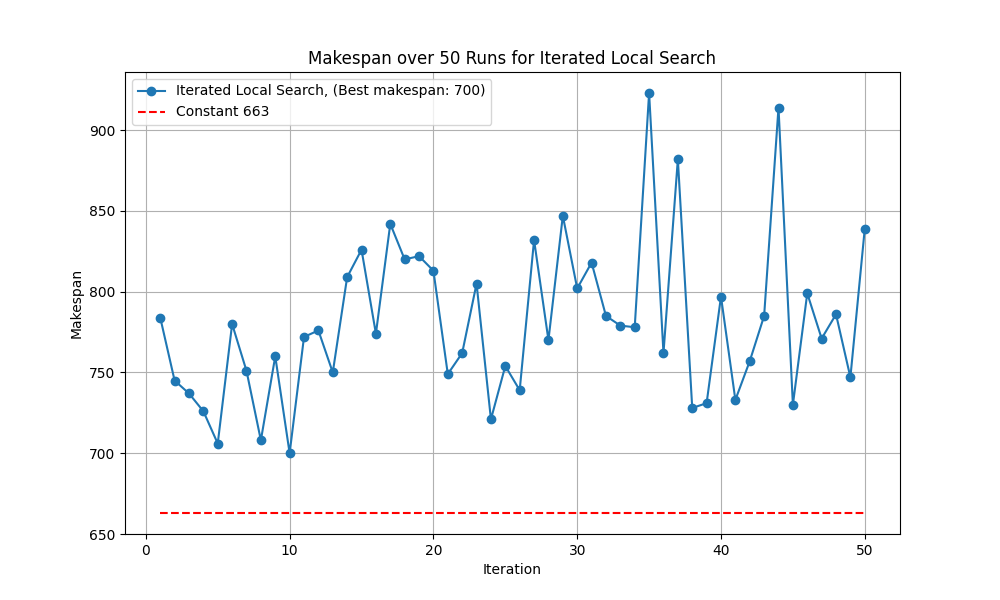
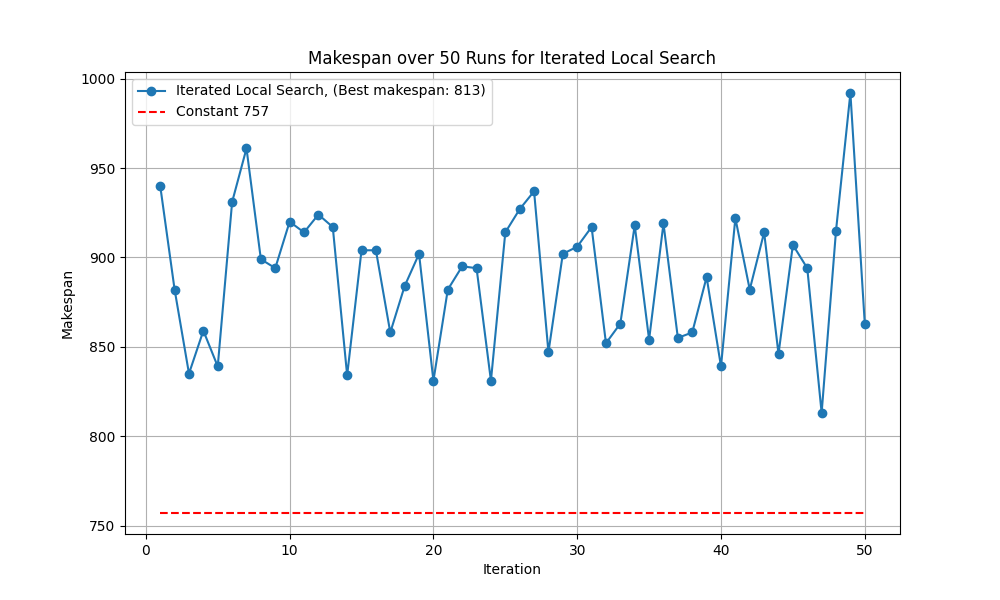
Added machines in order, machines idle, makespan on charts

diff --git a/main2.py b/main2.py
@@ -324,7 +324,7 @@ class Scheduler:
     def generate_neighbor(self, solution: Tuple[List[int], List[List[int]]]) -> Tuple[List[int], List[List[int]]]:
         operation_sequence, machine_assignment = copy.deepcopy(solution)   # We separate the operation sequence and the maachines assigned
         # Here we will decide if we swap two operations in the sequence or if we pick a different machine and task for a opperation
-        if random.random() < 0.5:
+        if random.random() < config.global_configs.operation_machine_ratio:
             # Option 1: Swap two operations in the sequence
             new_sequence: List[int] = operation_sequence.copy()    # We make a copy of the current sequence
             i, j = random.sample(range(len(new_sequence)), 2)   # Pick two random distinct positions from the new_sequence
@@ -643,7 +643,7 @@ class Scheduler:
                     ) -> Tuple[Tuple[List[int], List[List[int]]], int]:
         
          # Start with a deep copy of the initial solution to avoid modifying the input
-        current_solution: Tuple[List[int], List[List[int]]] = self.generate_initial_solution()
+        current_solution: Tuple[List[int], List[List[int]]] = self.generate_dispaching_inititial_solution("MWR")
         current_makespan: int = self.compute_makespan(*current_solution)    # Compute the makespan of the current solution
         # Initialize the best solution and its makespan 
         best_solution: Tuple[List[int], List[List[int]]] = copy.deepcopy(current_solution)
@@ -778,6 +778,29 @@ class Scheduler:
             print(value)
             print()
 
+    # should be used only after the scheluder completed the processing
+    def get_machines_idle(self) -> List[int]:
+        idles: List[int] = []
+        for machine in self.machines:
+            idle_time: int = 0
+            # We check if we have tasks
+            if len(machine.schedule):
+                # Time before the start of the first operation
+                idle_time += machine.schedule[0][1]
+                # Time in between the operations
+                for i in range(1, len(machine.schedule)):
+                    idle_time += machine.schedule[i][1] - machine.schedule[i - 1][2]
+                # Here we add the time between the end of the last operation and the makespan(end time)
+                idle_time += self.get_makespan() - machine.schedule[-1][2]
+            # In case there are no operations executed
+            else:
+                idle_time = self.get_makespan()
+            # Add to the list
+            idles.append(idle_time)
+        return idles 
+            
+            
+
 ########################
 ### Helper Functions ###
 ########################
@@ -785,7 +808,7 @@ class Scheduler:
 def run_gannt_chart(heuristic: str, scheduler: Scheduler, heuristic_names: Dict):
     scheduler.run(heuristic)
     print(f"\nResults for {heuristic}:")
-    #scheduler.print_job_answer()
+    scheduler.print_job_answer()
     print(f'The total time is: {scheduler.get_makespan()}')
 
     ##### Here the plotting part starts #####
@@ -812,9 +835,17 @@ def run_gannt_chart(heuristic: str, scheduler: Scheduler, heuristic_names: Dict)
     # Calculate duration, adds a new 'Duration' column computed from Finish - Start from every column 
     df['Duration'] = df['Finish'] - df['Start']
 
+    # Extract machine IDs for sorting
+    df['MachineID'] = df['Machine'].str.extract('(\d+)').astype(int)
+    
+    # Get ordered list of machine names (high to low)
+    machine_order = [f"Machine{i}" for i in range(scheduler.machines[-1].machine_id, -1, -1)]
+    
     # Create Gantt-like chart with numerical ranges, this is the configuration for horizontal bars
-    fig = px.bar(df, y = "Machine", x = "Duration", base = "Start", orientation = 'h', color = "Task", 
-                custom_data = ['Task', 'Start', 'Finish', 'Duration'], title = f"Gantt Chart for {heuristic_names[heuristic]}")
+    fig = px.bar(df, y="Machine", x="Duration", base="Start", orientation='h', color="Task", 
+                custom_data=['Task', 'Start', 'Finish', 'Duration'], 
+                title=f"Gantt Chart for {heuristic_names[heuristic]}",
+                category_orders={"Machine": machine_order})  # Set the category order
     # Above we use the custom data to ensure the data is taken directly from DataFrame to solve the Duration bug present in Plotly
 
     # Here we update the hover info type for the bars
@@ -827,13 +858,20 @@ def run_gannt_chart(heuristic: str, scheduler: Scheduler, heuristic_names: Dict)
         xaxis_title="Time Units",
         yaxis_title="Machines",
         xaxis_range=[0, scheduler.get_makespan()],
-        title = f'{heuristic_names[heuristic]}'
+        title = f'{heuristic_names[heuristic]}, makespan: {scheduler.get_makespan()}'
     )
 
     # Show the chart
     fig.show()
 
     ##### Here the plotting part ends #####
+    
+    # Here we print the idle(time when they were not working) times for machines
+    machines_idle: List[int] = scheduler.get_machines_idle()
+    print(f'\nDuring {heuristic}\n')
+    for i in range(len(machines_idle)):
+        print(f'Machine {i} was idle for {machines_idle[i]} units of time')
+    print()
 
     # Here we reset the scheduler
     scheduler.reset_scheduler()
@@ -988,8 +1026,8 @@ heuristic_names = {
 
 # Test all heuristics
 scheduler = Scheduler(allJobs, machines)
-for heuristic in ['ILS']:
-    save_chart_results(heuristic, 50, 663, scheduler, heuristic_names)
+for heuristic in ['SPT', 'LPT', 'MWR', 'LWR', 'SA', 'HC', 'TS', 'GA', 'ILS']:
+    run_gannt_chart(heuristic, scheduler, heuristic_names)
 
 
 #scheduler.display_work_remaining_arrays()

diff --git a/configModels.py b/configModels.py
@@ -1,4 +1,7 @@
 # Define classes to provide type hints for the config structure
+class GlobalConfigs:
+    operation_machine_ratio: float
+
 class SimulatedAnnealingConfig:
     initial_temperature: float
     cooling_rate: float
@@ -34,3 +37,4 @@ class Config:
     tabu_search: TabuSearchConfig
     genetic_algorithm: GeneticAlgorithmConfig
     iterated_local_search: IteratedLocalSearch
+    global_configs: GlobalConfigs
